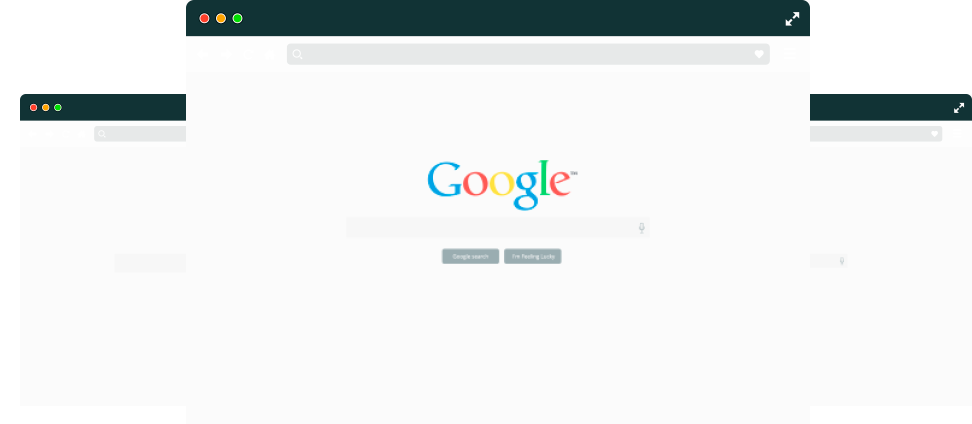
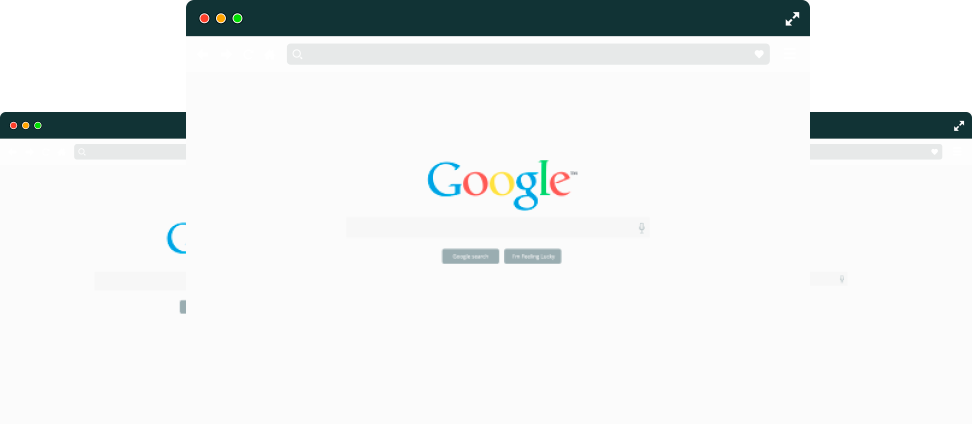
Cria Browser

diff --git a/index.html b/index.html
@@ -118,12 +118,35 @@
                     </div>
                 </div>
                 <div class="text-center mt-5">
-                    <button type="button" class="btn btn-primary btn-lg background-red button-secondary text-button-secondary">ORDER ME ONE ?</button>
+                    <button type="button" class="btn btn-primary btn-lg background-red button-secondary text-button-secondary">NEED SERVICE?</button>
                 </div>
             </div>
         </section>
 
+        <section class="background-red margin-section">
+            <div class="container">
 
+                <div class="margin-title">
+                    <div class="text-center">
+                        <h2 class="title-secondary">The Design That Likes To Say Yes.</h2>
+                        <br>
+                        <p class="text-sub">
+                            Eum cu tantas legere complectitur, hinc utamur ea eam. Eum patrioque mnesarchum eu, diam erant convenire 
+                            et vis. Et essent evertitur sea, <br /> vis cu ubique referrentur, sed eu dicant expetendis.
+                        </p>
+                    </div>
+                </div>
+
+                    <div class="d-none d-md-block">
+                        <img class="image-size" src="img/Browser.png">
+                    </div>
+
+                    <div class="d-md-none">
+                        <img class="image-size" src="img/MiddleBrowser.png">
+                    </div>
+
+            </div>
+        </section>
 
 
 

diff --git a/css/main.css b/css/main.css
@@ -18,6 +18,14 @@
     margin-top: 83px;
 }
 
+.margin-title{
+    padding: 100px 0px;
+}
+
+.margin-img{
+    margin-top: ;
+}
+
 /******** title **********/
 
 .title-primary{
@@ -25,6 +33,13 @@
     font-weight: 300;
     font-size: 60px;
     color: #FFFFFF;
+}
+
+.title-secondary{
+    font-family: Roboto;
+    font-weight: normal;
+    font-size: 40px;
+    color: #FFFFFF
 }
 
 .title-tertiary{
@@ -35,6 +50,13 @@
 }
 
 /******** text **********/
+
+.text-sub{
+    font-family: Roboto;
+    font-size: 13px;
+    line-height: 15px;
+    color: #ffffff;
+}
 
 .text-tertiary{
     font-family: Roboto;
@@ -93,3 +115,8 @@
     justify-content: center;
 }
 
+/******** Img **********/
+
+.image-size{
+    width: 100%;
+}
